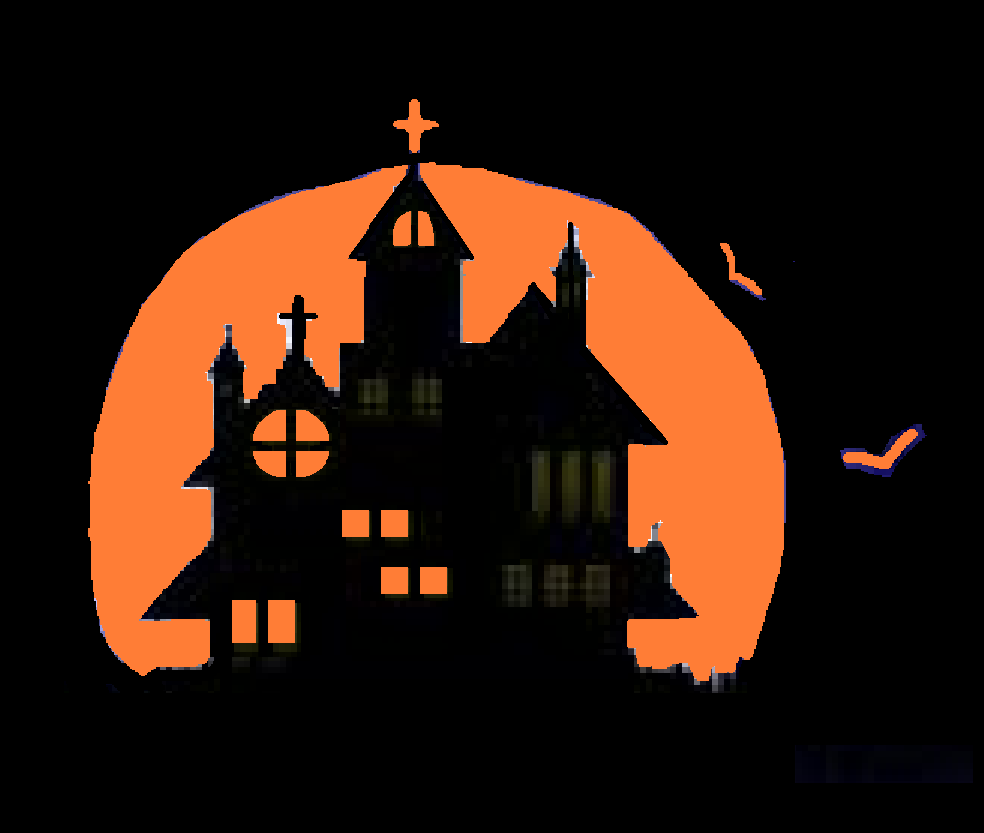
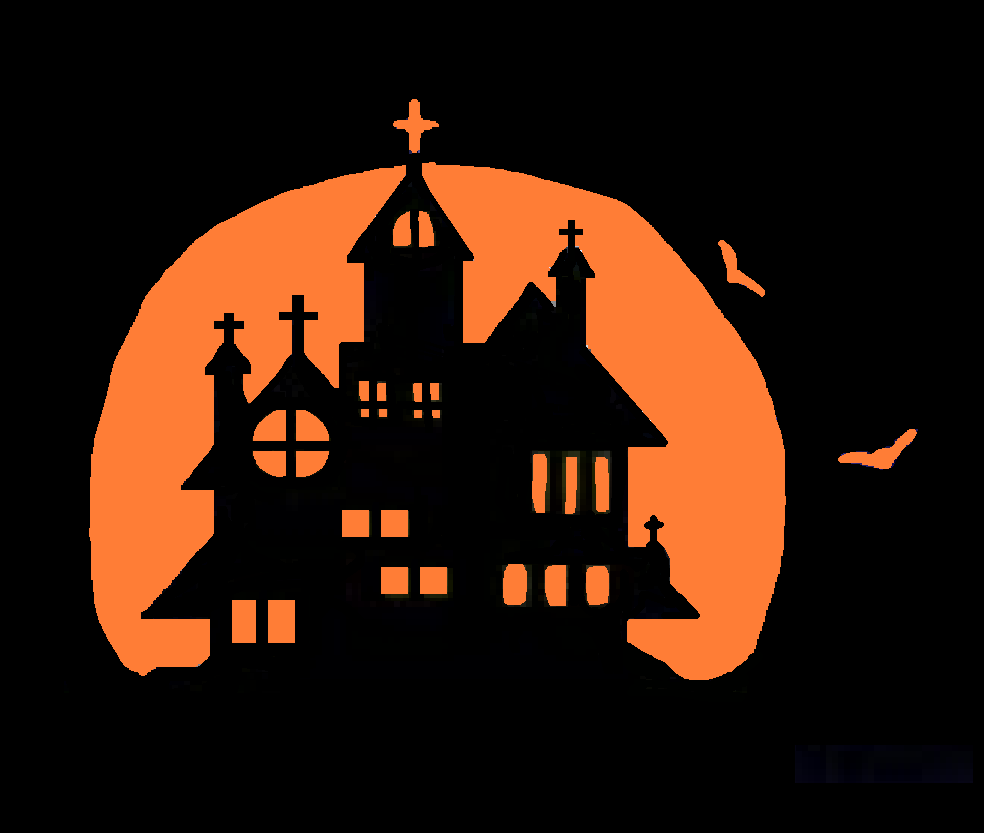
Edit patterns

diff --git a/server.js b/server.js
@@ -60,7 +60,7 @@ app.get("/api/patterns", (req, res) => {
       },
       {
          id: 7,
-         image: "jack-o-lantern.png",
+         image: "happy-halloween.png",
          name: "Happy Halloween!",
          difficulty: 3,
          price: 100
